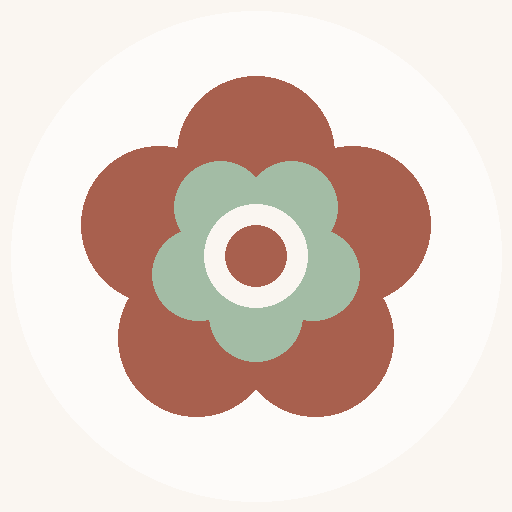
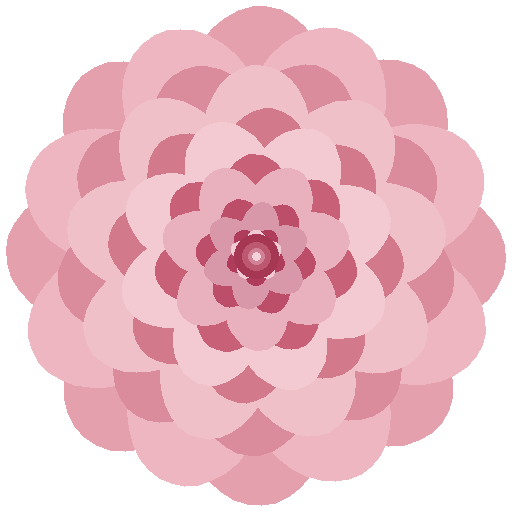
Add files via upload

diff --git a/sw.js b/sw.js
@@ -1,7 +1,7 @@
-const CACHE = 'bloom-v1';
+const CACHE = 'bloom-v2';
 const SHELL = [
-  '/',
-  '/index.html',
+  '/bloom/',
+  '/bloom/index.html',
   'https://fonts.googleapis.com/css2?family=Cormorant+Garamond:ital,wght@0,300;0,400;0,500;1,300;1,400&family=DM+Sans:wght@300;400;500&display=swap'
 ];
 
